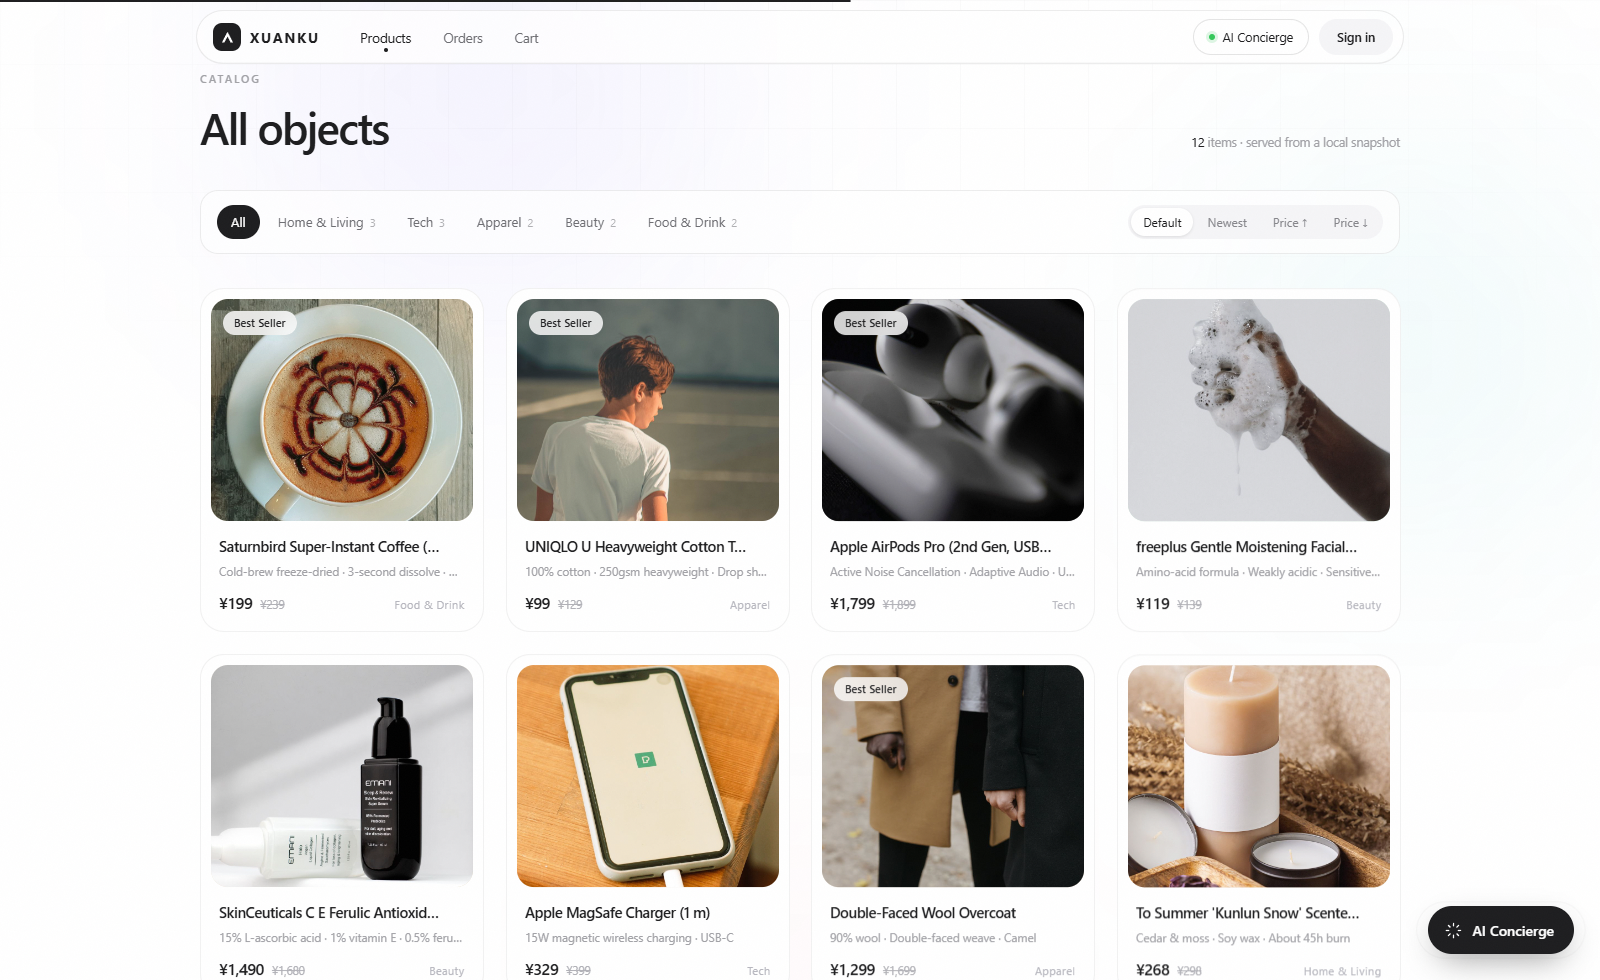
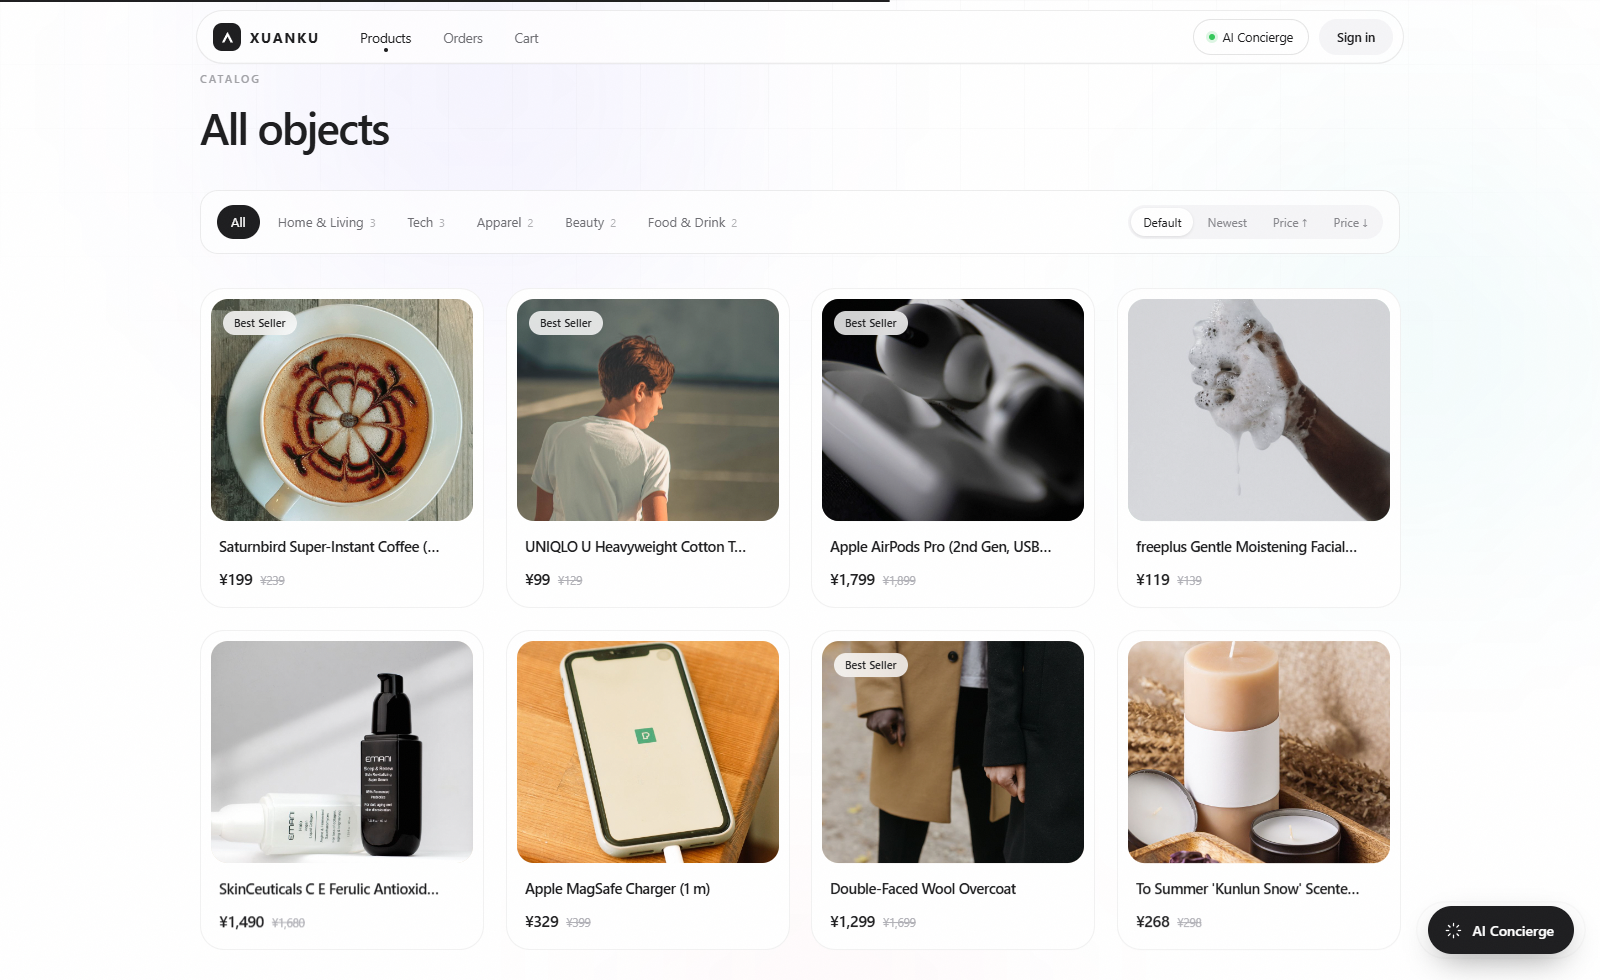
style: 文字减法——删 hero 介绍段、目录注释行、卡片副标题与分类字
- hero 只剩 eyebrow + 标题 + CTA + 数据条，波浪背景成为视觉主体
- 目录区删掉 '12 items · served from a local snapshot' 注释行
- 商品卡只留名字 + 价格（subtitle / 分类字移除），名字补 title 悬停提示
- 详情页信息保持完整：描述与规格表是唯一长文字的家
- 顺手修掉误删的 computed 导入（heroStyle 依赖）

Changed region(s): [[0.125, 0.5816, 0.875, 1.0], [0.75, 0.1224, 0.875, 0.1531], [0.3125, 0.5816, 0.4375, 0.6122]]

diff --git a/src/views/shop/ShopHome.vue b/src/views/shop/ShopHome.vue
@@ -48,7 +48,6 @@ const SORTS = [
   { key: 'price_desc', label: 'Price ↓' },
 ]
 
-const totalCount = computed(() => cats.value.reduce((n, c) => n + Number(c.count || 0), 0))
 
 async function load() {
   loading.value = true
@@ -209,11 +208,6 @@ const heroStyle = computed(() => {
           <span class="line grad-text ch-line" :style="{ '--d': '0.4s' }">comes home.</span>
         </h1>
 
-        <p class="lede hero-in">
-          Twelve carefully chosen objects — every spec and use case spelled out.<br />
-          When in doubt, the window at the bottom right decides for you.
-        </p>
-
         <div class="cta hero-in">
           <a
             class="primary magnet"
@@ -278,9 +272,6 @@ const heroStyle = computed(() => {
           <p class="eyebrow">Catalog</p>
           <h2 class="cat-title">All objects</h2>
         </div>
-        <p class="cat-note">
-          <span class="num">{{ totalCount || products.length }}</span> items · served from a local snapshot
-        </p>
       </header>
 
       <div class="filters">
@@ -337,18 +328,16 @@ const heroStyle = computed(() => {
 
             <div class="meta">
               <div class="meta-top">
-                <h3>{{ p.name }}</h3>
+                <h3 :title="p.name">{{ p.name }}</h3>
                 <span class="arrow">
                   <svg viewBox="0 0 24 24" width="14" height="14" fill="none" stroke="currentColor" stroke-width="2">
                     <path d="M7 17L17 7M9 7h8v8" stroke-linecap="round" stroke-linejoin="round" />
                   </svg>
                 </span>
               </div>
-              <p class="sub">{{ p.subtitle }}</p>
               <div class="price-row">
                 <span class="price">¥{{ money(p.price) }}</span>
                 <s v-if="p.originalPrice" class="was">¥{{ money(p.originalPrice) }}</s>
-                <span class="cat-dot">{{ p.category }}</span>
               </div>
             </div>
 
@@ -362,7 +351,6 @@ const heroStyle = computed(() => {
 
     <!-- ============ 尾部 CTA ============ -->
     <section class="outro">
-      <p class="eyebrow" v-scramble>Still undecided?</p>
       <h2 class="outro-title">
         Let the AI pick<br />
         <span class="grad-text">the right one</span>
@@ -487,14 +475,6 @@ const heroStyle = computed(() => {
     transform: none;
     filter: blur(0);
   }
-}
-
-.lede {
-  max-width: 560px;
-  margin: 30px auto 0;
-  font-size: 15.5px;
-  line-height: 1.85;
-  color: var(--text-2);
 }
 
 .cta {
@@ -746,17 +726,6 @@ const heroStyle = computed(() => {
   font-weight: 600;
   letter-spacing: -0.04em;
   color: var(--text-1);
-}
-
-.cat-note {
-  margin: 0 0 6px;
-  font-size: 12.5px;
-  color: var(--text-3);
-}
-
-.cat-note .num {
-  color: var(--text-1);
-  font-variant-numeric: tabular-nums;
 }
 
 .filters {
@@ -1077,16 +1046,6 @@ const heroStyle = computed(() => {
   color: var(--text-1);
 }
 
-.sub {
-  margin: 6px 0 0;
-  font-size: 12px;
-  line-height: 1.5;
-  color: var(--text-3);
-  overflow: hidden;
-  text-overflow: ellipsis;
-  white-space: nowrap;
-}
-
 .price-row {
   display: flex;
   align-items: baseline;
@@ -1106,13 +1065,6 @@ const heroStyle = computed(() => {
   font-size: 11.5px;
   color: #b0b0b6;
   font-variant-numeric: tabular-nums;
-}
-
-.cat-dot {
-  margin-left: auto;
-  font-size: 10.5px;
-  letter-spacing: 0.06em;
-  color: #b6b6be;
 }
 
 .skeleton {
@@ -1148,7 +1100,7 @@ const heroStyle = computed(() => {
 }
 
 .outro-title {
-  margin: 18px 0 0;
+  margin: 0;
   font-size: clamp(34px, 5.4vw, 64px);
   font-weight: 600;
   line-height: 1.1;
@@ -1189,9 +1141,6 @@ const heroStyle = computed(() => {
   .hero {
     min-height: 82vh;
     padding: 24px 20px 96px;
-  }
-  .lede {
-    font-size: 14.5px;
   }
   .stats {
     gap: 18px;
